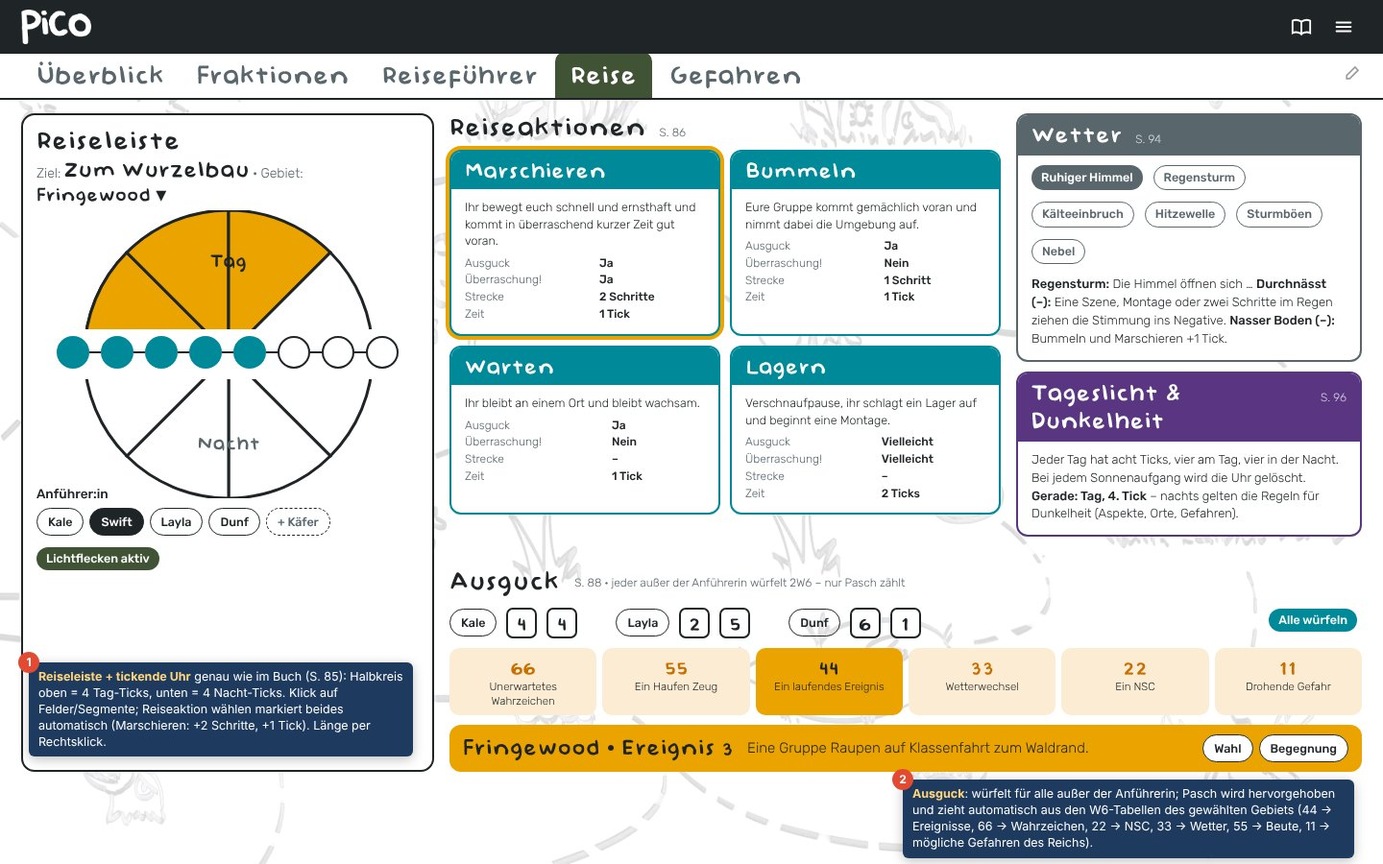
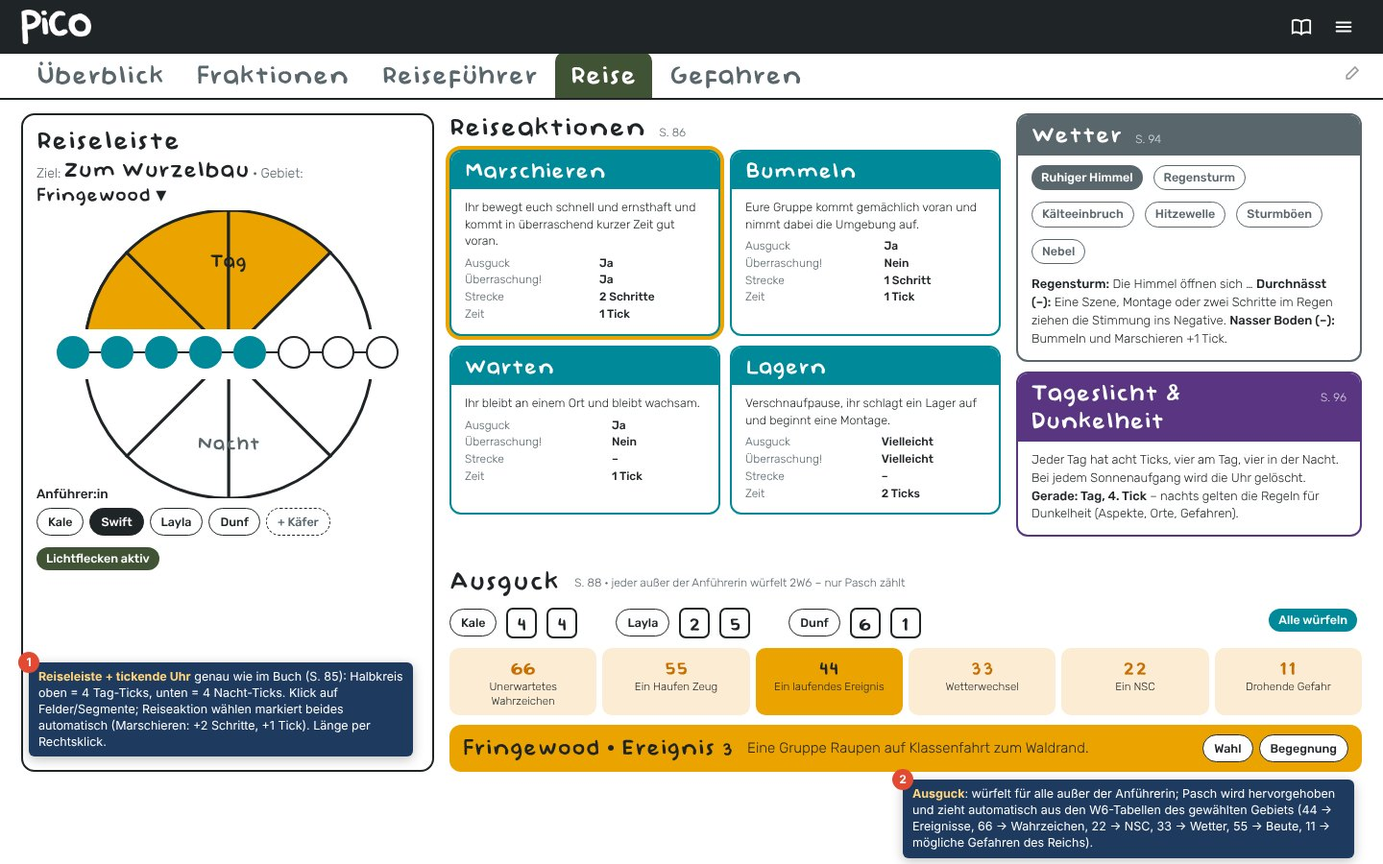
PICO-Plan: kein Linien-Hintergrund, Bild-Übersichten für Käfer, Picotitanen und Gefahren
- Kritzel-Hintergrund entfernt, alle Entwürfe neu aufgenommen
- Neue Entwürfe 9–11: Übersicht Aspekt-Gruppen + Fertigkeiten, Picotitanen + Titanenbau, Gefahren
- Plan um Abschnitt Übersichten, Symbol-Bilder und Bildregel für Titanen ergänzt

diff --git a/plan/pico/mockups/src/m11.html b/plan/pico/mockups/src/m11.html
@@ -1,0 +1,24 @@
+<!DOCTYPE html><html lang="de"><head><meta charset="utf-8"><link rel="stylesheet" href="pico.css"><style>
+.ct{padding:12px 22px}
+.sec{display:flex;align-items:center;gap:10px;margin-bottom:10px}.sec h2{font-size:34px;margin-right:8px}
+.sec input{border:2px solid var(--ink);border-radius:99px;padding:7px 14px;font:300 13px Rubik;width:230px;margin-left:auto}
+.grid{display:grid;grid-template-columns:repeat(9,1fr);gap:10px}
+.gc{border:2.5px solid var(--c);border-radius:12px;background:#fff;overflow:hidden;height:174px;display:flex;flex-direction:column}
+.gc.cur{box-shadow:0 0 0 3px var(--gold)}
+.gh{background:var(--c);color:#fff;font:16px/1.05 Baby;overflow-wrap:anywhere;padding:6px 8px 4px;min-height:42px;display:flex;align-items:center}
+.gb{flex:1;display:flex;flex-direction:column;align-items:center;justify-content:center;padding:4px 6px;text-align:center}
+.gb img{max-height:78px;max-width:100%;object-fit:contain}
+.gt{display:flex;flex-direction:column;align-items:center;gap:3px}
+.kw{font:500 10.5px Rubik;color:var(--soft)}
+.gc .hearts{flex-wrap:wrap;justify-content:center;max-width:100%;row-gap:2px}.gc .hearts .h{width:10px;height:9px}.gc .brk{width:4px;height:4px;margin:0 1px}
+.gc:not(.im) .gt{gap:8px}.gc:not(.im) .hearts .h{width:13px;height:12px}
+.gc .pg{margin:0;font-size:10.5px}
+</style></head><body>
+<!--TOP-->
+<div class="tabs" style="--c:var(--coral)"><a class="on">Alle Gefahren</a><a>Regeln für Gefahren</a><a>Begegnung</a></div>
+<div class="ct">
+ <div class="sec"><h2>Winzige Gefahren</h2><span class="chip" style="--c:var(--ink)">Alle</span><span class="chip o" style="--c:var(--ink)">Schwarm</span><span class="chip o" style="--c:var(--ink)">Lakai</span><span class="chip o" style="--c:var(--ink)">Elite</span><span class="chip o" style="--c:var(--ink)">Boss</span><span class="chip o" style="--c:var(--moss)">Im Hogwild</span><input placeholder="Gefahr suchen …"></div>
+ <div class="grid"><div class="gc im" style="--c:#9e2220"><div class="gh">Bestienmäuse</div><div class="gb"><img src="img/gef/beastmice.webp"><div class="gt"><span class="kw">Groß · Bestial · Lakai</span><span class="hearts"><i class="h"></i><i class="h"></i><i class="brk"></i><i class="h"></i><i class="h"></i><i class="brk"></i><i class="h"></i><i class="h"></i></span><span class="pg">S. 212</span></div></div></div><div class="gc" style="--c:#ec6b6b"><div class="gh">Tonnenwölfe</div><div class="gb"><div class="gt"><span class="kw">Groß · Scheppernd · Elite</span><span class="hearts"><i class="h"></i><i class="h"></i><i class="brk"></i><i class="h"></i><i class="h"></i><i class="brk"></i><i class="h"></i></span><span class="pg">S. 214</span></div></div></div><div class="gc" style="--c:#405335"><div class="gh">Käferbaren</div><div class="gb"><div class="gt"><span class="kw">Klein · Krabbelig · Lakai</span><span class="hearts"><i class="h"></i><i class="brk"></i><i class="h"></i></span><span class="pg">S. 215</span></div></div></div><div class="gc" style="--c:#593582"><div class="gh">Katzen</div><div class="gb"><div class="gt"><span class="kw">Titan · Bestial · Boss</span><span class="hearts"><i class="h"></i><i class="h"></i><i class="h"></i></span><span class="pg">S. 216</span></div></div></div><div class="gc im" style="--c:#008999"><div class="gh">Klapperkatzen</div><div class="gb"><img src="img/gef/clankercats.webp"><div class="gt"><span class="kw">Gruppe · s. Karte</span><span class="hearts"><i class="h"></i><i class="h"></i><i class="h"></i></span><span class="pg">S. 218</span></div></div></div><div class="gc" style="--c:#eba300"><div class="gh">Cockerelisks</div><div class="gb"><div class="gt"><span class="kw">Gruppe · s. Karte</span><span class="hearts"><i class="h"></i><i class="brk"></i><i class="h"></i><i class="h"></i></span><span class="pg">S. 220</span></div></div></div><div class="gc" style="--c:#b34c25"><div class="gh">Kometennasen-Maulwürfe</div><div class="gb"><div class="gt"><span class="kw">Groß · Bestial · Elite</span><span class="hearts"><i class="h"></i><i class="h"></i><i class="h"></i><i class="brk"></i><i class="h"></i><i class="h"></i><i class="h"></i><i class="brk"></i><i class="h"></i><i class="h"></i><i class="h"></i></span><span class="pg">S. 221</span></div></div></div><div class="gc im" style="--c:#593582"><div class="gh">Cordychaps</div><div class="gb"><img src="img/gef/cordychaps.webp"><div class="gt"><span class="kw">Gruppe · s. Karte</span><span class="hearts"><i class="h"></i><i class="brk"></i><i class="h"></i><i class="h"></i></span><span class="pg">S. 222</span></div></div></div><div class="gc im" style="--c:#1f2426"><div class="gh">Drachenfledermäuse</div><div class="gb"><img src="img/gef/dracobats.webp"><div class="gt"><span class="kw">Riesig · Bestial · Elite</span><span class="hearts"><i class="h"></i><i class="h"></i><i class="h"></i><i class="brk"></i><i class="h"></i><i class="h"></i><i class="h"></i><i class="brk"></i><i class="h"></i><i class="h"></i><i class="h"></i><i class="brk"></i><i class="h"></i><i class="h"></i><i class="h"></i></span><span class="pg">S. 224</span></div></div></div><div class="gc" style="--c:#008999"><div class="gh">Grimm-Picoranhas</div><div class="gb"><div class="gt"><span class="kw">Klein · Schuppig · Schwarm</span><span class="hearts"><i class="h"></i><i class="brk"></i><i class="h"></i><i class="brk"></i><i class="h"></i><i class="brk"></i><i class="h"></i><i class="brk"></i><i class="h"></i></span><span class="pg">S. 226</span></div></div></div><div class="gc" style="--c:#008bd2"><div class="gh">Trommelvögel</div><div class="gb"><div class="gt"><span class="kw">Gruppe · s. Karte</span><span class="hearts"><i class="h"></i><i class="h"></i><i class="brk"></i><i class="h"></i><i class="h"></i><i class="h"></i><i class="brk"></i><i class="h"></i><i class="h"></i></span><span class="pg">S. 227</span></div></div></div><div class="gc im cur" style="--c:#969f31"><div class="gh">Froglins</div><div class="gb"><img src="img/gef/froglins.webp"><div class="gt"><span class="kw">Groß · Schleimig · Boss</span><span class="hearts"><i class="h"></i><i class="h"></i><i class="h"></i><i class="brk"></i><i class="h"></i><i class="h"></i><i class="brk"></i><i class="h"></i><i class="h"></i><i class="h"></i></span><span class="pg">S. 228</span></div></div></div><div class="gc" style="--c:#969f31"><div class="gh">Croaklins</div><div class="gb"><div class="gt"><span class="kw">Groß · Schleimig · Boss</span><span class="hearts"><i class="h"></i><i class="h"></i><i class="h"></i><i class="brk"></i><i class="h"></i><i class="h"></i><i class="brk"></i><i class="h"></i><i class="h"></i><i class="h"></i></span><span class="pg">S. 228</span></div></div></div><div class="gc" style="--c:#ec6b6b"><div class="gh">Gestalten</div><div class="gb"><div class="gt"><span class="kw">Gruppe · s. Karte</span><span class="hearts"><i class="h"></i><i class="h"></i><i class="h"></i><i class="h"></i><i class="h"></i><i class="h"></i><i class="brk"></i><i class="h"></i><i class="h"></i></span><span class="pg">S. 230</span></div></div></div><div class="gc" style="--c:#185d7e"><div class="gh">Große Rätselmeister</div><div class="gb"><div class="gt"><span class="kw">Groß · Krabbelig · Elite</span><span class="hearts"><i class="h"></i><i class="h"></i><i class="brk"></i><i class="h"></i><i class="h"></i><i class="brk"></i><i class="h"></i><i class="h"></i></span><span class="pg">S. 231</span></div></div></div><div class="gc" style="--c:#6e4018"><div class="gh">Erdeulen</div><div class="gb"><div class="gt"><span class="kw">Titan · Gefiedert · Boss</span><span class="hearts"><i class="h"></i><i class="h"></i><i class="h"></i><i class="h"></i></span><span class="pg">S. 232</span></div></div></div><div class="gc im cur" style="--c:#405335"><div class="gh">Groundbreaker-Schweine</div><div class="gb"><img src="img/gef/groundbreaker.webp"><div class="gt"><span class="kw">Titan · Bestial · Boss</span><span class="hearts"><i class="h"></i><i class="h"></i><i class="h"></i><i class="h"></i><i class="h"></i><i class="h"></i></span><span class="pg">S. 234</span></div></div></div><div class="gc im" style="--c:#008999"><div class="gh">Gubs</div><div class="gb"><img src="img/gef/gubs.webp"><div class="gt"><span class="kw">Klein · Scheppernd · Elite</span><span class="hearts"><i class="h"></i><i class="h"></i><i class="brk"></i><i class="h"></i></span><span class="pg">S. 236</span></div></div></div><div class="gc" style="--c:#9e2220"><div class="gh">Erbstücker</div><div class="gb"><div class="gt"><span class="kw">Gruppe · s. Karte</span><span class="hearts"><i class="h"></i><i class="h"></i><i class="h"></i><i class="brk"></i><i class="h"></i><i class="h"></i><i class="h"></i><i class="brk"></i><i class="h"></i><i class="h"></i><i class="h"></i><i class="brk"></i><i class="h"></i></span><span class="pg">S. 239</span></div></div></div><div class="gc" style="--c:#008999"><div class="gh">Hekatantonopeden</div><div class="gb"><div class="gt"><span class="kw">Titan · Krabbelig · Boss</span><span class="hearts"><i class="h"></i><i class="h"></i><i class="h"></i><i class="h"></i><i class="h"></i><i class="h"></i><i class="h"></i></span><span class="pg">S. 240</span></div></div></div><div class="gc" style="--c:#eba300"><div class="gh">Hex-Kabel-Hydren</div><div class="gb"><div class="gt"><span class="kw">Riesig · Scheppernd · Elite</span><span class="hearts"><i class="h"></i><i class="h"></i><i class="h"></i><i class="brk"></i><i class="h"></i><i class="h"></i><i class="h"></i><i class="brk"></i><i class="h"></i><i class="h"></i><i class="h"></i><i class="brk"></i><i class="h"></i><i class="h"></i><i class="brk"></i><i class="h"></i><i class="h"></i><i class="brk"></i><i class="h"></i></span><span class="pg">S. 242</span></div></div></div><div class="gc" style="--c:#839369"><div class="gh">Immorcheln</div><div class="gb"><div class="gt"><span class="kw">Klein · Pilzig · Schwarm</span><span class="hearts"><i class="h"></i><i class="h"></i><i class="brk"></i><i class="h"></i><i class="h"></i><i class="brk"></i><i class="h"></i><i class="h"></i></span><span class="pg">S. 243</span></div></div></div><div class="gc" style="--c:#8a3578"><div class="gh">Lactogeister</div><div class="gb"><div class="gt"><span class="kw">Gruppe · s. Karte</span><span class="hearts"><i class="h"></i><i class="h"></i><i class="brk"></i><i class="h"></i><i class="h"></i><i class="brk"></i><i class="h"></i><i class="h"></i><i class="brk"></i><i class="h"></i><i class="h"></i></span><span class="pg">S. 244</span></div></div></div><div class="gc" style="--c:#1f2426"><div class="gh">Löwenzahn-Mähnen</div><div class="gb"><div class="gt"><span class="kw">Riesig · Blättrig · Elite</span><span class="hearts"><i class="h"></i><i class="h"></i><i class="h"></i><i class="h"></i><i class="h"></i><i class="h"></i><i class="brk"></i><i class="h"></i><i class="brk"></i><i class="h"></i><i class="h"></i><i class="h"></i></span><span class="pg">S. 245</span></div></div></div><div class="gc im cur" style="--c:#9e2220"><div class="gh">Mini-Söldner</div><div class="gb"><img src="img/gef/miniature-mercs.webp"><div class="gt"><span class="kw">Klein · Krabbelig · Elite</span><span class="hearts"><i class="h"></i><i class="h"></i><i class="brk"></i><i class="h"></i><i class="h"></i></span><span class="pg">S. 246</span></div></div></div><div class="gc im" style="--c:#008999"><div class="gh">Mampfäleons</div><div class="gb"><img src="img/gef/munchmeleons.webp"><div class="gt"><span class="kw">Riesig · Schuppig · Elite</span><span class="hearts"><i class="h"></i><i class="h"></i><i class="brk"></i><i class="h"></i><i class="h"></i><i class="brk"></i><i class="h"></i><i class="h"></i><i class="h"></i><i class="h"></i><i class="brk"></i><i class="h"></i><i class="h"></i><i class="brk"></i><i class="h"></i><i class="h"></i></span><span class="pg">S. 249</span></div></div></div><div class="gc im cur" style="--c:#af8ec1"><div class="gh">Raubpflanzen</div><div class="gb"><img src="img/gef/predatory-plants.webp"><div class="gt"><span class="kw">Versch. Größen · Blättrig · Elite</span><span class="hearts"><i class="h"></i><i class="h"></i><i class="h"></i><i class="h"></i><i class="brk"></i><i class="h"></i><i class="h"></i><i class="h"></i></span><span class="pg">S. 250</span></div></div></div><div class="gc im" style="--c:#ec6b6b"><div class="gh">Quetzalcroakl</div><div class="gb"><img src="img/gef/quetzalcroakl.webp"><div class="gt"><span class="kw">Gruppe · s. Karte</span><span class="hearts"><i class="h"></i><i class="h"></i><i class="brk"></i><i class="h"></i><i class="h"></i><i class="h"></i><i class="h"></i><i class="h"></i><i class="brk"></i><i class="h"></i><i class="h"></i></span><span class="pg">S. 253</span></div></div></div><div class="gc" style="--c:#c76f00"><div class="gh">Harznauten</div><div class="gb"><div class="gt"><span class="kw">Klein · Krabbelig · Schwarm</span><span class="hearts"><i class="h"></i><i class="brk"></i><i class="h"></i><i class="h"></i><i class="h"></i><i class="h"></i><i class="brk"></i><i class="h"></i><i class="h"></i></span><span class="pg">S. 254</span></div></div></div><div class="gc" style="--c:#3a403e"><div class="gh">Plündergläser</div><div class="gb"><div class="gt"><span class="kw">Gruppe · s. Karte</span><span class="hearts"><i class="h"></i><i class="h"></i><i class="h"></i><i class="h"></i><i class="brk"></i><i class="h"></i></span><span class="pg">S. 255</span></div></div></div><div class="gc im" style="--c:#8a3578"><div class="gh">Schmiertaue</div><div class="gb"><img src="img/gef/scumdews.webp"><div class="gt"><span class="kw">Titan · Blättrig · Boss</span><span class="hearts"><i class="h"></i><i class="h"></i><i class="h"></i><i class="h"></i><i class="h"></i><i class="h"></i></span><span class="pg">S. 256</span></div></div></div><div class="gc" style="--c:#59676d"><div class="gh">Krabbelhülsen</div><div class="gb"><div class="gt"><span class="kw">Klein · Geisterhaft · Elite</span><span class="hearts"><i class="h"></i><i class="h"></i><i class="brk"></i><i class="h"></i><i class="h"></i></span><span class="pg">S. 258</span></div></div></div><div class="gc" style="--c:#9e2220"><div class="gh">Snydra</div><div class="gb"><div class="gt"><span class="kw">Riesig · Schuppig · Elite</span><span class="hearts"><i class="h"></i><i class="h"></i><i class="h"></i><i class="h"></i><i class="brk"></i><i class="h"></i><i class="h"></i><i class="brk"></i><i class="h"></i><i class="h"></i></span><span class="pg">S. 260</span></div></div></div><div class="gc" style="--c:#eba300"><div class="gh">Eichhörnchen-Schleuderer</div><div class="gb"><div class="gt"><span class="kw">Groß o. Riesig · Bestial · Elite</span><span class="hearts"><i class="h"></i><i class="brk"></i><i class="h"></i><i class="h"></i><i class="h"></i><i class="brk"></i><i class="h"></i></span><span class="pg">S. 261</span></div></div></div><div class="gc im" style="--c:#839369"><div class="gh">Stelzenstachler</div><div class="gb"><img src="img/gef/striding-spikers.webp"><div class="gt"><span class="kw">Versch. Größen · Blättrig · Elite</span><span class="hearts"><i class="h"></i><i class="brk"></i><i class="h"></i><i class="h"></i><i class="h"></i><i class="h"></i><i class="brk"></i><i class="h"></i></span><span class="pg">S. 262</span></div></div></div><div class="gc im" style="--c:#185d7e"><div class="gh">Zygar, der Allesverschlinger</div><div class="gb"><img src="img/gef/zygar.webp"><div class="gt"><span class="kw">Titan · Bestial · Boss</span><span class="hearts"><i class="h"></i><i class="h"></i><i class="h"></i><i class="h"></i><i class="h"></i><i class="h"></i><i class="h"></i></span><span class="pg">S. 264</span></div></div></div></div>
+</div>
+<div class="anno" data-n="1" style="left:760px;top:58px;max-width:420px"><b>Gefahren-Übersicht</b>: 36 Karten in der Kopffarbe der Buchseite, Bild nur wo im Buch vorhanden, Schlüsselwörter + Herzleiste. Filter nach Bedrohung / Reich. Gelb = Gefahr der laufenden Begegnung. Klick → Gefahren-Karte (Entwurf 6).</div>
+</body></html>

diff --git a/plan/pico/mockups/src/m10.html b/plan/pico/mockups/src/m10.html
@@ -1,0 +1,42 @@
+<!DOCTYPE html><html lang="de"><head><meta charset="utf-8"><link rel="stylesheet" href="pico.css"><style>
+.ct{padding:14px 22px;display:grid;grid-template-columns:1fr 330px;gap:20px}
+.sec{display:flex;align-items:baseline;gap:12px;margin-bottom:10px}.sec h2{font-size:34px}
+.grid{display:grid;grid-template-columns:repeat(4,1fr);gap:12px}
+.tc{border:2.5px solid var(--c);border-radius:14px;background:#fff;overflow:hidden;text-align:left;position:relative}
+.tc.cur{box-shadow:0 0 0 4px var(--gold)}
+.tc .th{background:var(--c);color:#fff;padding:7px 10px 5px}.tc .th h3{font-size:25px;color:#fff}
+.tc dl{display:grid;grid-template-columns:auto 1fr;gap:3px 8px;padding:8px 10px 10px;font-size:12px;line-height:1.3}
+.tc dt{color:var(--soft)}.tc dd{font-weight:500}
+.tc .ax{position:absolute;right:6px;bottom:6px;width:96px}
+
+.den{display:grid;grid-template-columns:repeat(9,1fr);gap:10px;margin-top:4px}
+.fc{border:2.5px dashed var(--c);border-radius:14px;padding:8px 6px;text-align:center;background:#fff}
+.fc.on{border-style:solid}
+.fc .ic{background:var(--c);border-radius:10px;height:74px;display:flex;align-items:center;justify-content:center;gap:4px;padding:4px}
+.fc:not(.on) .ic{opacity:.55}
+.fc .ic img{max-height:58px;max-width:48%}
+.fc h3{font-size:21px;color:var(--c);margin-top:6px}
+.fc small{display:block;font-size:11px;color:var(--soft)}
+.lv{display:inline-flex;gap:3px;margin:3px 0}.lv i{width:11px;height:11px;border-radius:3px;border:2px solid var(--c)}.lv i.m{background:var(--c)}
+.nb{display:block;font-size:11px;color:var(--soft);margin:2px 0}
+.side2 .box{margin-bottom:12px}
+.side2 .bd2{font-size:13px;line-height:1.45}
+.side2 img{width:100%;max-height:170px;object-fit:contain}
+</style></head><body>
+<!--TOP-->
+<div class="tabs" style="--c:var(--olive)"><a>Welt</a><a>Regeln</a><a>Käfer</a><a class="on">Picotitanen</a><a>Weber</a><a>Anhang</a></div>
+<div class="ct"><div>
+ <div class="sec"><h2>Die Picotitanen</h2><span class="pg">S. 180–183</span></div>
+ <div class="grid"><div class="tc cur" style="--c:#9f2320"><div class="th"><h3>Catling</h3></div><dl><dt>Rang 3</dt><dd>Gigaschleichen, Gigajagen</dd><dt>Aura</dt><dd>Kampflustig</dd><dt>Vorteil</dt><dd>Raubtierinstinkt</dd><dt>Trägt</dt><dd>1 Brocken</dd></dl></div><div class="tc" style="--c:#eba400"><div class="th"><h3>Cluckatruce</h3></div><dl><dt>Rang 3</dt><dd>Gigafliegen, Gigaquasseln</dd><dt>Aura</dt><dd>Neugierig</dd><dt>Vorteil</dt><dd>Brüten</dd><dt>Trägt</dt><dd>1 Brocken</dd></dl></div><div class="tc" style="--c:#008a99"><div class="th"><h3>Axolittle</h3></div><img class="ax" src="img/axolittle.webp"><dl><dt>Rang 3</dt><dd>Gigaschwimmen, Gigakümmern</dd><dt>Aura</dt><dd>Federnd</dd><dt>Vorteil</dt><dd>Amphibisch</dd><dt>Trägt</dt><dd>1 Brocken</dd></dl></div><div class="tc" style="--c:#008a99"><div class="th"><h3>Disastergoose</h3></div><dl><dt>Rang 3</dt><dd>Gigafliegen, Gigahauen</dd><dt>Aura</dt><dd>Kampflustig</dd><dt>Vorteil</dt><dd>Schwanengesang</dd><dt>Trägt</dt><dd>1 Brocken</dd></dl></div><div class="tc" style="--c:#b44c25"><div class="th"><h3>Foxfriend</h3></div><dl><dt>Rang 3</dt><dd>Gigaschleichen, Gigastöbern</dd><dt>Aura</dt><dd>Neugierig</dd><dt>Vorteil</dt><dd>Tonnenknacker</dd><dt>Trägt</dt><dd>2 Brocken</dd></dl></div><div class="tc" style="--c:#9f2320"><div class="th"><h3>Hoglet</h3></div><dl><dt>Rang 3</dt><dd>Gigakartieren, Gigaschlitzen</dd><dt>Aura</dt><dd>Federnd</dd><dt>Vorteil</dt><dd>Alte Gewohnheiten</dd><dt>Trägt</dt><dd>1 Brocken</dd></dl></div><div class="tc" style="--c:#008a99"><div class="th"><h3>Lambkin</h3></div><dl><dt>Rang 3</dt><dd>Gigakümmern, Gigaspüren</dd><dt>Aura</dt><dd>Freundlich</dd><dt>Vorteil</dt><dd>Schäfchen zählen</dd><dt>Trägt</dt><dd>1 Brocken</dd></dl></div><div class="tc" style="--c:#9f2320"><div class="th"><h3>Otterkip</h3></div><dl><dt>Rang 3</dt><dd>Gigaschwimmen, Gigaflitzen</dd><dt>Aura</dt><dd>Federnd</dd><dt>Vorteil</dt><dd>Wasserschneider</dd><dt>Trägt</dt><dd>1 Brocken</dd></dl></div><div class="tc" style="--c:#6d2420"><div class="th"><h3>Puppo</h3></div><dl><dt>Rang 3</dt><dd>Gigaquasseln, Gigahauen</dd><dt>Aura</dt><dd>Freundlich</dd><dt>Vorteil</dt><dd>Streichel den Hund</dd><dt>Trägt</dt><dd>1 Brocken</dd></dl></div><div class="tc" style="--c:#008a99"><div class="th"><h3>Raccoonie</h3></div><dl><dt>Rang 3</dt><dd>Gigastöbern, Gigaprahlen</dd><dt>Aura</dt><dd>Neugierig</dd><dt>Vorteil</dt><dd>Greifhand</dd><dt>Trägt</dt><dd>2 Brocken</dd></dl></div><div class="tc" style="--c:#9f2320"><div class="th"><h3>Serpent</h3></div><dl><dt>Rang 3</dt><dd>Gigabrutzeln, Gigaerschrecken</dd><dt>Aura</dt><dd>Kampflustig</dd><dt>Vorteil</dt><dd>Gegengift</dd><dt>Trägt</dt><dd>1 Brocken</dd></dl></div><div class="tc" style="--c:#eba400"><div class="th"><h3>Shellcrawler</h3></div><dl><dt>Rang 3</dt><dd>Gigaschützen, Gigadenken</dd><dt>Aura</dt><dd>Freundlich</dd><dt>Vorteil</dt><dd>Langsam & stetig</dd><dt>Trägt</dt><dd>2 Brocken</dd></dl></div></div>
+ <div class="sec" style="margin-top:16px"><h2>Titanenbau</h2><span class="pg">Merkmale · Symbole = benötigte Brocken · S. 184–189</span></div>
+ <div class="den"><div class="fc on" style="--c:#c76f00"><div class="ic"><img src="img/ico/S185_01.webp"><img src="img/ico/S185_02.webp"></div><h3>Küche</h3><span class="lv"><i class="m"></i><i class="m"></i><i></i></span><small>S. 185</small></div><div class="fc" style="--c:#a16426"><div class="ic"><img src="img/ico/S185_03.webp"><img src="img/ico/S185_04.webp"></div><h3>Werkstatt</h3><span class="nb">nicht gebaut</span><small>S. 185</small></div><div class="fc on" style="--c:#185d7e"><div class="ic"><img src="img/ico/S186_02.webp"><img src="img/ico/S186_03.webp"></div><h3>Ausguck</h3><span class="lv"><i class="m"></i><i></i><i></i></span><small>S. 186</small></div><div class="fc" style="--c:#8a3578"><div class="ic"><img src="img/ico/S187_01.webp"><img src="img/ico/S187_02.webp"></div><h3>Bar</h3><span class="nb">nicht gebaut</span><small>S. 187</small></div><div class="fc" style="--c:#008999"><div class="ic"><img src="img/ico/S187_03.webp"></div><h3>Schlafsaal</h3><span class="nb">nicht gebaut</span><small>S. 187</small></div><div class="fc" style="--c:#59676d"><div class="ic"><img src="img/ico/S187_04.webp"><img src="img/ico/S187_05.webp"></div><h3>Lager</h3><span class="nb">nicht gebaut</span><small>S. 187</small></div><div class="fc" style="--c:#969f31"><div class="ic"><img src="img/ico/S188_01.webp"><img src="img/ico/S188_03.webp"></div><h3>Garten</h3><span class="nb">nicht gebaut</span><small>S. 188</small></div><div class="fc" style="--c:#ec6b6b"><div class="ic"><img src="img/ico/S188_02.webp"><img src="img/ico/S188_04.webp"></div><h3>Lazarett</h3><span class="nb">nicht gebaut</span><small>S. 188</small></div><div class="fc" style="--c:#593582"><div class="ic"><img src="img/ico/S189_01.webp"><img src="img/ico/S189_02.webp"></div><h3>Bibliothek</h3><span class="nb">nicht gebaut</span><small>S. 189</small></div></div>
+</div>
+<div class="side2">
+ <div class="sec"><h2>Grundlagen</h2></div>
+ <div class="box" style="--c:var(--olive)"><div class="hd">Was sind Picotitanen? <span class="pg">S. 171</span></div><div class="bd2">Streifzugbogen · Titan bekommen · Was können sie? · … und was nicht? · Gunst · Aura · Gigafertigkeiten · Besondere Vorteile</div></div>
+ <img src="img/den.webp">
+ <div class="tint" style="--t:var(--tint-olive);font-size:13px;margin-top:8px"><b>Streifzugbogen der Bande</b> öffnen →</div>
+</div></div>
+<div class="anno" data-n="1" style="left:1090px;top:590px;max-width:320px"><b>Titanen-Karten</b> wie Vaesen: Bild nur, wo das Buch beim Eintrag eins hat (im Buch nur der <b>Axolittle</b>). Ohne Bild: Karte mit Kopf in Titanfarbe und den wichtigsten Werten. Gelb umrandet = Titan der Bande (aus dem Streifzugbogen). Klick → Titan-Detail.</div>
+<div class="anno" data-n="2" style="left:640px;top:830px;max-width:420px"><b>Titanenbau</b>: 9 Merkmale mit den Original-Brocken-Symbolen; gebaut = durchgezogen mit Ausbaustufen, sonst gestrichelt. Klick → Detail.</div>
+</body></html>

diff --git a/plan/pico/mockups/src/m9.html b/plan/pico/mockups/src/m9.html
@@ -1,0 +1,28 @@
+<!DOCTYPE html><html lang="de"><head><meta charset="utf-8"><link rel="stylesheet" href="pico.css"><style>
+.ct{padding:16px 22px}
+.sec{display:flex;align-items:baseline;gap:12px;margin-bottom:10px}.sec h2{font-size:34px}
+.grid{display:grid;grid-template-columns:repeat(9,1fr);gap:12px}
+.cc{border:2.5px solid var(--c);border-radius:14px;background:#fff;padding:8px 8px 9px;text-align:center;cursor:pointer;transition:transform .15s}
+.cc .im{height:118px;display:flex;align-items:center;justify-content:center}
+.cc img{max-width:100%;max-height:118px;object-fit:contain}
+.cc h3{font-size:24px;color:var(--c);margin-top:6px}
+.cc small{display:block;font-size:11px;color:var(--soft);margin-top:2px}
+.cc.hov{transform:translateY(-3px);box-shadow:0 8px 18px rgba(0,0,0,.12)}
+.skills{display:grid;grid-template-columns:repeat(4,1fr);gap:12px}
+.sc{background:var(--c);border-radius:14px;padding:10px 12px;color:#fff}
+.sc h3{font-size:26px;margin-bottom:6px}.sc .pg{color:rgba(255,255,255,.8)}
+.sks{display:grid;grid-template-columns:repeat(3,1fr);gap:6px}
+.sk{display:flex;flex-direction:column;align-items:center;font:500 12px Rubik;gap:2px}
+.sk img{height:44px}
+</style></head><body>
+<!--TOP-->
+<div class="tabs" style="--c:var(--amber)"><a>Welt</a><a>Regeln</a><a class="on">Käfer</a><a>Picotitanen</a><a>Weber</a><a>Anhang</a></div>
+<div class="ct">
+ <div class="sec"><h2>Aspekt-Gruppen</h2><span class="pg">Aspekt 3 Nektar · Augment +2 Nektar · S. 104–143</span><span style="margin-left:auto"><span class="chip" style="--c:var(--ink)">Käfer bauen I</span><span class="chip" style="--c:var(--ink)">Schnellstarts</span><span class="chip" style="--c:var(--ink)">Käfer bauen II</span><span class="chip o" style="--c:var(--ink)">Stimmungen</span><span class="chip o" style="--c:var(--ink)">Rätsel</span></span></div>
+ <div class="grid"><div class="cc" style="--c:#9e2220"><div class="im"><img src="img/asp/beisser.webp"></div><h3>Beißer</h3><small>9 Aspekte · 12 Augmente · S. 108</small></div><div class="cc hov" style="--c:#c76f00"><div class="im"><img src="img/asp/sauger.webp"></div><h3>Sauger</h3><small>9 Aspekte · 13 Augmente · S. 110</small></div><div class="cc" style="--c:#008bd2"><div class="im"><img src="img/asp/gucker.webp"></div><h3>Gucker</h3><small>8 Aspekte · 13 Augmente · S. 112</small></div><div class="cc" style="--c:#8a3578"><div class="im"><img src="img/asp/panzer.webp"></div><h3>Panzer</h3><small>9 Aspekte · 15 Augmente · S. 114</small></div><div class="cc" style="--c:#185d7e"><div class="im"><img src="img/asp/schleim.webp"></div><h3>Schleim</h3><small>6 Aspekte · 14 Augmente · S. 116</small></div><div class="cc" style="--c:#b34c25"><div class="im"><img src="img/asp/fuehler.webp"></div><h3>Fühler</h3><small>6 Aspekte · 12 Augmente · S. 118</small></div><div class="cc" style="--c:#405335"><div class="im"><img src="img/asp/krabbelbeine.webp"></div><h3>Krabbelbeine</h3><small>7 Aspekte · 13 Augmente · S. 120</small></div><div class="cc" style="--c:#af8ec1"><div class="im"><img src="img/asp/greifer.webp"></div><h3>Greifer</h3><small>8 Aspekte · 11 Augmente · S. 122</small></div><div class="cc" style="--c:#eba300"><div class="im"><img src="img/asp/fluegel.webp"></div><h3>Flügel</h3><small>7 Aspekte · 12 Augmente · S. 124</small></div><div class="cc" style="--c:#ee7bae"><div class="im"><img src="img/asp/druesen.webp"></div><h3>Drüsen</h3><small>8 Aspekte · 12 Augmente · S. 126</small></div><div class="cc" style="--c:#839369"><div class="im"><img src="img/asp/schwaenze.webp"></div><h3>Schwänze</h3><small>8 Aspekte · 12 Augmente · S. 128</small></div><div class="cc" style="--c:#d98d61"><div class="im"><img src="img/asp/statur.webp"></div><h3>Statur</h3><small>7 Aspekte · 10 Augmente · S. 130</small></div><div class="cc" style="--c:#593582"><div class="im"><img src="img/asp/hirn.webp"></div><h3>Hirn</h3><small>7 Aspekte · 12 Augmente · S. 132</small></div><div class="cc" style="--c:#969f31"><div class="im"><img src="img/asp/gefaehrten.webp"></div><h3>Gefährten</h3><small>6 Aspekte · 13 Augmente · S. 134</small></div><div class="cc" style="--c:#a16426"><div class="im"><img src="img/asp/reittiere.webp"></div><h3>Reittiere</h3><small>6 Aspekte · 14 Augmente · S. 136</small></div><div class="cc" style="--c:#008999"><div class="im"><img src="img/asp/werkzeuge.webp"></div><h3>Werkzeuge</h3><small>S. 138</small></div><div class="cc" style="--c:#59676d"><div class="im"><img src="img/asp/waffen.webp"></div><h3>Waffen</h3><small>S. 140</small></div><div class="cc" style="--c:#6e4018"><div class="im"><img src="img/asp/faeden.webp"></div><h3>Fäden</h3><small>S. 142</small></div></div>
+ <div class="sec" style="margin-top:16px"><h2>Fertigkeiten</h2><span class="pg">S. 144–151</span></div>
+ <div class="skills"><div class="sc" style="--c:#008999"><h3>Bewegen <span class="pg">S. 148</span></h3><div class="sks"><span class="sk"><img src="img/ico/S148_01.webp">Flitzen</span><span class="sk"><img src="img/ico/S148_02.webp">Klettern</span><span class="sk"><img src="img/ico/S148_03.webp">Graben</span><span class="sk"><img src="img/ico/S148_04.webp">Schleichen</span><span class="sk"><img src="img/ico/S148_05.webp">Fliegen</span><span class="sk"><img src="img/ico/S148_06.webp">Schwimmen</span></div></div><div class="sc" style="--c:#ee7bae"><h3>Anfreunden <span class="pg">S. 149</span></h3><div class="sks"><span class="sk"><img src="img/ico/S149_01.webp">Quasseln</span><span class="sk"><img src="img/ico/S149_02.webp">Prahlen</span><span class="sk"><img src="img/ico/S149_03.webp">Blenden</span><span class="sk"><img src="img/ico/S149_04.webp">Erschrecken</span><span class="sk"><img src="img/ico/S149_05.webp">Kümmern</span><span class="sk"><img src="img/ico/S149_06.webp">Zähmen</span></div></div><div class="sc" style="--c:#eba300"><h3>Finden <span class="pg">S. 150</span></h3><div class="sks"><span class="sk"><img src="img/ico/S150_01.webp">Spüren</span><span class="sk"><img src="img/ico/S150_02.webp">Jagen</span><span class="sk"><img src="img/ico/S150_03.webp">Denken</span><span class="sk"><img src="img/ico/S150_04.webp">Stöbern</span><span class="sk"><img src="img/ico/S150_05.webp">Werkeln</span><span class="sk"><img src="img/ico/S150_06.webp">Kartieren</span></div></div><div class="sc" style="--c:#9e2220"><h3>Raufen <span class="pg">S. 151</span></h3><div class="sks"><span class="sk"><img src="img/ico/S151_01.webp">Hauen</span><span class="sk"><img src="img/ico/S151_02.webp">Beißen</span><span class="sk"><img src="img/ico/S151_03.webp">Schlitzen</span><span class="sk"><img src="img/ico/S151_04.webp">Brutzeln</span><span class="sk"><img src="img/ico/S151_05.webp">Tanzen</span><span class="sk"><img src="img/ico/S151_06.webp">Schützen</span></div></div></div>
+</div>
+<div class="anno" data-n="1" style="left:1040px;top:250px;max-width:330px"><b>Übersicht wie bei Vaesen/Wildsea</b>: jede Aspekt-Gruppe als Karte mit Buchbild (ungeschnitten) und Buchfarbe. Klick → Detailansicht (Entwurf 7). Kein Baum links – Seite beginnt mit Kachelraster.</div>
+<div class="anno" data-n="2" style="left:600px;top:800px;max-width:330px"><b>Fertigkeiten</b> mit den Original-Symbolen aus dem Buch (weiß auf Kategoriefarbe); Klick → Fertigkeit im Detail.</div>
+</body></html>

diff --git a/plan/pico/mockups/src/m2.html b/plan/pico/mockups/src/m2.html
@@ -1,6 +1,6 @@
 <!DOCTYPE html><html lang="de"><head><meta charset="utf-8"><link rel="stylesheet" href="pico.css"><style>
 body{background:#1f2426;color:#e9ecea}
-body:before{opacity:.06;filter:invert(1)}
+
 .tabs{background:#1f2426;border-color:#e9ecea}.tabs a{color:#9aa5a9}.tabs a.on{color:#1f2426}
 .main{display:flex;height:796px}
 .side{background:rgba(31,36,38,.95);border-color:#e9ecea}.side h4{color:#e9ecea}.side h4.c{color:#7f8a8e}.side a{color:#9aa5a9}.side a.on{background:rgba(151,159,50,.22);color:#fff}

diff --git a/plan/pico/mockups/src/pico.css b/plan/pico/mockups/src/pico.css
@@ -12,7 +12,7 @@
 }
 *{box-sizing:border-box;margin:0;padding:0}
 body{width:1440px;height:900px;overflow:hidden;background:#fff;color:var(--ink);font:300 15px/1.55 Rubik,system-ui,sans-serif;position:relative}
-body:before{content:"";position:fixed;inset:0;background:url(img/kritzel.webp) center/1500px auto;opacity:.55;pointer-events:none;z-index:0}
+/* kein Kritzel-Hintergrund – clean (Moritz, 21.11.) */
 body>*{position:relative;z-index:1}
 b,strong{font-weight:500}
 i,em{font-style:italic}

diff --git a/plan/PICO_PLAN.md b/plan/PICO_PLAN.md
@@ -18,6 +18,11 @@ Entwürfe (Screenshots 1440×900) liegen in `plan/pico/mockups/` – **die Umset
 | 6 | `m6-gefahren.jpg` | Gefahren-Browser + Begegnungsleiste |
 | 7 | `m7-nachschlagen-kaefer.jpg` | Nachschlagen · Käfer (Aspekt-Gruppe „Sauger“) |
 | 8 | `m8-streifzugbogen.jpg` | Streifzugbogen (Picotitan, Titanenbau, Bande, Wahrheiten, Beute) |
+| 9 | `m9-uebersicht-kaefer.jpg` | Übersicht Käfer: 18 Aspekt-Gruppen als Bildkarten + Fertigkeiten mit Original-Symbolen |
+| 10 | `m10-uebersicht-picotitanen.jpg` | Übersicht Picotitanen: 12 Titanen-Karten + 9 Titanenbau-Merkmale mit Brocken-Symbolen |
+| 11 | `m11-uebersicht-gefahren.jpg` | Übersicht Gefahren: 36 Karten mit Bild, Schlüsselwörtern, Herzleiste, Filter |
+
+**Stand 21. Nov. 2026, 23:20 – Moritz’ Änderungen:** (1) **Kein Kritzel-/Linien-Hintergrund** – Seiten clean weiß (dunkle Reiche: einfarbig dunkel). (2) Für alle Sammlungen (Käfer/Aspekt-Gruppen, Fertigkeiten, Picotitanen, Titanenbau, Gefahren, …) eine **Bild-Übersicht wie bei Vaesen/The Wildsea**: Kachelraster mit den Buchbildern, Klick öffnet die Detailansicht (Entwürfe 9–11).
 
 Die Texte in den Entwürfen sind teils gekürzt – im Tool steht immer der **vollständige** Buchtext.
 
@@ -148,7 +153,7 @@ Unbekannte Begriffe: sinngemäß übersetzen und ins Glossar eintragen, damit al
 - Aufzählungen mit `»` in Kastenfarbe.
 - Tabellen mit Zebrastreifen in der Tönung der Kastenfarbe; W6-Spalte in Baby-Doll.
 - **Herzleisten:** Herz = Feld, Punkt = Bruch (`♥♥•♥♥•♥` im Buch). Herzen als SVG (leer/markiert/verbrannt mit Kreuz), Bruchpunkt als kleiner Kreis.
-- Hintergrund: die Kritzel-Landkarte des Buchs (xref 2225, 2476×1576) als `pico/img/kritzel.webp` (liegt in `plan/pico/mockups/src/img/`), hell, `opacity .55`, fixiert. Auf dunklen Reichen invertiert mit `opacity .06`.
+- Hintergrund: **clean weiß, keine Kritzel-Landkarte, keine Linien** (Moritz’ Vorgabe). Dunkle Reiche: einfarbig `#1f2426`.
 - **Reich-Themen:** jedes Reich hat im Buch eine Leitfarbe/Stimmung: Hogwild Moosgrün `#405335` (hell), Shadow House **dunkel** (`#1f2426`-Seiten, Akzent `#979f32`), Skyglass Dome, Nekopolis, Westgate Mall → Leitfarbe am Seitenbild ablesen (Farbe der Fraktions-/Gebietsköpfe, `{farbe=…}` im Markdown) und in `reiche.js` als `farbe`, `dunkel:true|false` ablegen. Nekopolis-Seiten im Buch prüfen (ebenfalls dunkel?).
 - **Aspekt-Gruppen** und **Gefahren** haben je eine eigene Kopffarbe (Kopfband im Buch) → Gefahren: Spalte `kopffarbe` in `plan/pico/gefahren-liste.tsv`; Aspekt-Gruppen: am Seitenbild bzw. `{farbe=…}` der Augmente ablesen (Sauger `#c76f00`).
 
@@ -160,7 +165,8 @@ Unbekannte Begriffe: sinngemäß übersetzen und ins Glossar eintragen, damit al
 #start                        Vorbereitung (Entwurf 1) – erste Seite beim Öffnen
 #nach/<bereich>/<id>          Nachschlagen: welt | regeln | kaefer | titanen | weber | anhang (Entwurf 7)
 #reich/<id>/<tab>[/<anker>]   Reich-Leitstand: ueberblick | fraktionen | reisefuehrer | reise | gefahren (Entwürfe 2–6)
-#gefahren[/<id>]              Gefahren-Browser für alle Gefahren (gleiche Ansicht wie der Reich-Tab, ohne Reich-Filter)
+#gefahren                     Gefahren-Übersicht (Entwurf 11)
+#gefahren/<id>                Gefahren-Karte (Entwurf 6, ohne Reich-Filter)
 #streifzug                    Streifzugbogen der Gruppe (Entwurf 8)
 #schirm                       Spielleiterschirm = Regelübersicht S. 346–353
 #galerie                      alle Buchbilder
@@ -182,6 +188,21 @@ Unbekannte Begriffe: sinngemäß übersetzen und ins Glossar eintragen, damit al
 **Aspekt-Gruppe (Entwurf 7):** Kopfband über die volle Breite in Gruppenfarbe mit „Aspekt 3 Nektar · Augment +2 Nektar (max. 2 je Aspekt) · S. …“; darunter Überblick · Warum …? · Frag dich … · Bild (in einer Zeile, 4 Spalten); Aspekte als Karten im 4er-Raster (Name, Käfersprache-Name klein, Herzleiste im Kopf, „Teil“-Kennzeichen wo im Buch „PART“ steht); darunter Augmente als dichtes 4er-Raster. Jede der 18 Gruppen hat im Buch genau eine Doppelseite.
 
 **Titanen (Nachschlagen Picotitanen):** 12 Karten im Raster mit Kopf in Titan-Farbe (`{farbe=…}`), Gunst gewinnen / Gigafertigkeiten / Aura / Besonderer Vorteil; Bild nur, wo im Buch ein Bild zu genau diesem Titan steht.
+
+### Übersichten (Entwürfe 9–11) – für jede Sammlung
+Wie bei Vaesen („Vaesen“-Tab) und The Wildsea (Blutlinien/Posten): **Kachelraster mit Bild, Klick → Detail**. Diese Übersichten sind die Einstiegsseite des jeweiligen Bereichs (kein Baum links, Rule „Seiten mit Kachelraster brauchen keine Seitenleiste“); die Detailseite hat dann den Baum links.
+
+| Übersicht | Route | Karten | Karteninhalt |
+|---|---|---|---|
+| Aspekt-Gruppen (Entwurf 9 oben) | `#nach/kaefer` | 18 | Buchbild der Gruppe (`object-fit:contain`, ungeschnitten), Name in Baby-Doll in Gruppenfarbe, Rand in Gruppenfarbe, „9 Aspekte · 12 Augmente · S. 108“ (Werkzeuge/Waffen/Fäden haben einen anderen Aufbau – nur „S.“). Hover hebt die Karte leicht an. Chips rechts oben: Käfer bauen I, Schnellstarts, Käfer bauen II, Stimmungen, Rätsel |
+| Fertigkeiten (Entwurf 9 unten) | `#nach/kaefer` | 4 Kategorien × 6 | Kategoriekasten in Vollfarbe, je Fertigkeit das **Original-Symbol** (weiß) + Name; Klick → Fertigkeit |
+| Picotitanen (Entwurf 10 oben) | `#nach/titanen` | 12 | Kopf in Titanfarbe, Werte Rang-3-Gigafertigkeiten · Aura · Vorteil · Tragfähigkeit; **Bild nur beim Axolittle** (einziger Titan mit eigenem Bild beim Eintrag, S. 181). Titan der Bande (Streifzugbogen) gold umrandet |
+| Titanenbau (Entwurf 10 unten) | `#nach/titanen` | 9 | Symbolfeld in Merkmalsfarbe mit den Original-Brocken-Symbolen, Name, Ausbaustufen (aus dem Streifzugbogen), gebaut = durchgezogen, sonst gestrichelt |
+| Gefahren (Entwurf 11) | `#gefahren` | 36 | 9×4-Raster passt auf einen Bildschirm: Kopf in Buchfarbe der Gefahrenseite, Bild (nur wenn im Buch vorhanden), Schlüsselwörter deutsch, Herzleiste (verkleinert, **einzeilig** – bei sehr langen Leisten Herzen weiter verkleinern statt umbrechen), S.; Filter Alle/Schwarm/Lakai/Elite/Boss/„Im <Reich>“, Suche; Tabs oben: Alle Gefahren · Regeln für Gefahren · Begegnung |
+
+Weitere Sammlungen bekommen dasselbe Muster, sobald sie gebaut werden: Wettertypen (Reise-Tafel), Nicht-Käfer und Katzen (Welt), Siedlungen (Welt), NSC einer Fraktion (Initialen-Kreise, kein erfundenes Bild).
+
+**Bilder in Übersichten:** nur Bilder, die im Buch beim Eintrag stehen. Für die übrigen Titanen gibt es im Buch Bilder der jeweiligen Tierart an anderer Stelle (Fuchs S. 6/Cover, Otter S. 46, Hund S. 175/186, Katzen S. 25–27) – **nicht** verwenden, solange Moritz das nicht ausdrücklich freigibt.
 
 ### Reich-Leitstand (das Herzstück)
 Tabs: **Überblick · Fraktionen · Reiseführer · Reise · Gefahren**, aktiver Tab in Reich-Farbe, Stift-Symbol (Notizen je Reich und Tab) ganz rechts auf der Tab-Zeile. Dunkle Reiche (Shadow House, ggf. Nekopolis) komplett im dunklen Thema (Entwurf 3).
@@ -230,7 +251,7 @@ Gruppen-Spielstand (ein Spielstand, nicht pro Reich): Picotitan (Auswahl aus den
 
 ```
 pico/index.html                eigene Shell – Kopfzeile, #app, Burger, Suche, Skripte, toolmenu.js, gm_tool_mode_v1="pico"
-pico/style.css                 Design nach Abschnitt 3 (Baby-Doll/Rubik, Farben, Kästen, Herzen, Kritzel-Hintergrund, Dunkel-Thema)
+pico/style.css                 Design nach Abschnitt 3 (Baby-Doll/Rubik, Farben, Kästen, Herzen, weißer Hintergrund ohne Bild, Dunkel-Thema)
 pico/js/app.js                 Routing, Startseite, Seitenleiste, Blöcke, Tasten
 pico/js/nach.js                Nachschlagen (Kapitel, Aspekt-Gruppen, Titanen, Merkmale)
 pico/js/reich.js               Reich-Leitstand (Überblick, Fraktionen, Reiseführer)
@@ -247,7 +268,7 @@ pico/js/data/welt-a.js … (Kap. 1), regeln-2a.js … regeln-5c.js, kaefer-6a.js
 pico/js/data/reich-hogwild.js, reich-shadow-house.js, reich-skyglass-dome.js, reich-nekopolis.js, reich-westgate-mall.js
 pico/js/data/gefahren-1.js (Beastmice–Cordychaps), gefahren-2.js (Dracobats–Ground-Owls), gefahren-3.js (Groundbreaker Hogs–Lactogeists),
              gefahren-4.js (dandeLion's Manes–Quetzalcroakl), gefahren-5.js (Resinauts–Zygar), galerie.js
-pico/img/kritzel.webp, kapitel/, reich/, aspekt/, titan/, gefahr/, figur/, den/
+pico/img/kapitel/, reich/, aspekt/, titan/, gefahr/, figur/, den/, ico/ (Fertigkeits- und Brocken-Symbole)
 assets/fonts/pico-babydoll.woff2, rubik-latin-300-normal.woff2, rubik-latin-300-italic.woff2, rubik-latin-500-normal.woff2
 ```
 
@@ -302,15 +323,15 @@ PI_MERKMAL.push({ id:"kitchen", t:"Küche", p:185, brocken:["Blechdose","Streich
 
 **Priorität: Reiche (Abenteuer) zuerst**, Nachschlagen danach.
 
-0. **Gerüst, Design, Bilder.** Wildsea-Code nach `pico/` übernehmen (Abschnitt 5), Schriften nach `assets/fonts/`, `pico.css` → `pico/style.css`, Kritzel-Hintergrund. `extract_images.py` laufen lassen (nach `/tmp`), Kapitel- und Reich-Eröffnungen als Doppelseiten zusammensetzen und sprechend benennen (Abschnitt 7). Startseite (Entwurf 1), Bücher/Bookviewer (`off:2`), Burger, Tasten, SW. Würfel-Grundfunktion.
+0. **Gerüst, Design, Bilder.** Wildsea-Code nach `pico/` übernehmen (Abschnitt 5), Schriften nach `assets/fonts/`, `pico.css` → `pico/style.css` (ohne Hintergrundbild). `extract_images.py` laufen lassen (nach `/tmp`), Kapitel- und Reich-Eröffnungen als Doppelseiten zusammensetzen und sprechend benennen (Abschnitt 7). Startseite (Entwurf 1), Bücher/Bookviewer (`off:2`), Burger, Tasten, SW. Würfel-Grundfunktion.
 1. **Reich-Leitstand + The Hogwild komplett** (S. 272–285): `reich-hogwild.js`, `reich.js`, `reise.js`, `herz.js` (Entwürfe 2, 4, 5 und Fraktionen nach Entwurf 3 in hell). Gefahren-Chips dürfen noch ins Leere zeigen (grau). Schablone für alle Reiche.
-2. **Gefahren I:** `gefahr.js` (Entwurf 6) + Beastmice bis Groundbreaker Hogs (S. 212–235) + Begegnungsleiste, Kombo- und Rampenlicht-Leiste.
+2. **Gefahren I:** Gefahren-Übersicht (Entwurf 11) + `gefahr.js` (Entwurf 6) + Beastmice bis Groundbreaker Hogs (S. 212–235) + Begegnungsleiste, Kombo- und Rampenlicht-Leiste.
 3. **Gefahren II:** Gubs bis Zygar (S. 236–265). Alle Reich-Verweise verlinken.
 4. **The Shadow House** (dunkles Thema, Entwurf 3) + **Skyglass Dome** (S. 286–311).
 5. **The Nekopolis** + **Westgate Mall** (S. 312–337).
 6. **Regeln** (Kap. 2–5) + Würfel mit allen Wurfarten + Spielleiterschirm (S. 346–353) + Wetter-Daten für die Reise-Tafel.
-7. **Käfer I:** Kap. 6 Grundlagen, Nektar, Schnellstarts, 18 Aspekt-Gruppen (Entwurf 7), Fertigkeiten.
-8. **Käfer II + Picotitanen:** Kap. 7, Kap. 8 (12 Titanen, Titanenbau) + **Streifzugbogen** (Entwurf 8).
+7. **Käfer I:** Kap. 6 Grundlagen, Nektar, Schnellstarts, Übersicht (Entwurf 9) + 18 Aspekt-Gruppen (Entwurf 7), Fertigkeiten mit Symbolen.
+8. **Käfer II + Picotitanen:** Kap. 7, Kap. 8 – Übersicht (Entwurf 10), 12 Titanen, Titanenbau + **Streifzugbogen** (Entwurf 8).
 9. **Welt** (Kap. 1) + **Weber** (Kap. 9, S. 201–211, S. 266–267) + **Anhang** + Suche über alles + Galerie + Gesamtcheck (Handy 1280, keine JS-Fehler, keine Lücken) → diesen Plan als „erledigt“ markieren.
 
 Für jede Sitzung bittet Sonnet Moritz, das Corebook-PDF hochzuladen (für Bilder und Seitenbilder). Der Text liegt schon im Repo.
@@ -319,11 +340,12 @@ Für jede Sitzung bittet Sonnet Moritz, das Corebook-PDF hochzuladen (für Bilde
 
 ## 7. Bilder
 
-Inventar: `plan/pico/bilder-inventar.tsv` (279 Bilder; Name `S<Buchseite>_<nr>_<b>x<h>`). Übersprungen wird nur die Kritzel-Landkarte (2476×1576, auf jeder Seite). Viele schmale Bilder (z. B. `S012_01_9x998`, `S037_01_21x928`) sind Seiten-Ränder/Streifen bzw. die rechte Hälfte einer Doppelseite – nie allein verwenden. Weiße 186×156-Bilder (S. 148–151) sind die Fertigkeits-Symbole (weiß auf farbigem Grund) – im Tool auf Kastenfarbe legen.
+Inventar: `plan/pico/bilder-inventar.tsv` (279 Bilder; Name `S<Buchseite>_<nr>_<b>x<h>`). Übersprungen wird die Kritzel-Landkarte (2476×1576, auf jeder Seite) – sie wird **nicht** verwendet. Viele schmale Bilder (z. B. `S012_01_9x998`, `S037_01_21x928`) sind Seiten-Ränder/Streifen bzw. die rechte Hälfte einer Doppelseite – nie allein verwenden. Weiße 186×156-Bilder (S. 148–151) sind die Fertigkeits-Symbole (weiß auf farbigem Grund) – im Tool auf Kastenfarbe legen.
 
 | Bereich | Quelle (Buchseite) | Ziel |
 |---|---|---|
-| Kritzel-Hintergrund | xref 2225 | `img/kritzel.webp` (fertig in `plan/pico/mockups/src/img/`) |
+| Fertigkeits-Symbole (24, weiß) | S148_01–06 Bewegen · S149_01–06 Anfreunden · S150_01–06 Finden · S151_01–06 Raufen (Reihenfolge wie im Buch: Dash, Climb, Dig, Slink, Fly, Swim usw.) | `img/ico/fert-<fertigkeit>` – immer auf Kategoriefarbe legen |
+| Brocken-Symbole Titanenbau (weiß) | S185_01–04, S186_02–03, S187_01–05, S188_01–04, S189_01–02 – stehen im Buch im Kasten „Required Chunks“ des jeweiligen Merkmals; **Zuordnung am Seitenbild prüfen** | `img/ico/brocken-<name>` – auf Merkmalsfarbe |
 | Kapitel-Eröffnungen (Doppelseiten) | S. 6+7 · 28+29 · 48+49 · 68+69 · 82+83 · 98+99 · 152+153 · 170+171 · 190+191 · 200+201 · 268+269 · 338+339 (je großes Bild + schmaler Streifen) | `img/kapitel/k01-welt` … `k12-anhang` |
 | Reich-Eröffnungen (Doppelseiten) | Hogwild S272_01+S273_01 · Shadow House S286_01+S287_01 · Skyglass Dome S300_01+S301_01 · Nekopolis S312_01+S313_01 · Westgate Mall S324_01+S325_01 | `img/reich/hogwild` … (fertig zusammengesetzt in `plan/pico/mockups/src/img/reich-*.webp`) |
 | Aspekt-Gruppen | Figur auf der Doppelseite der Gruppe (S. 108–143), z. B. Sauger `S111_01` | `img/aspekt/sauger` |
